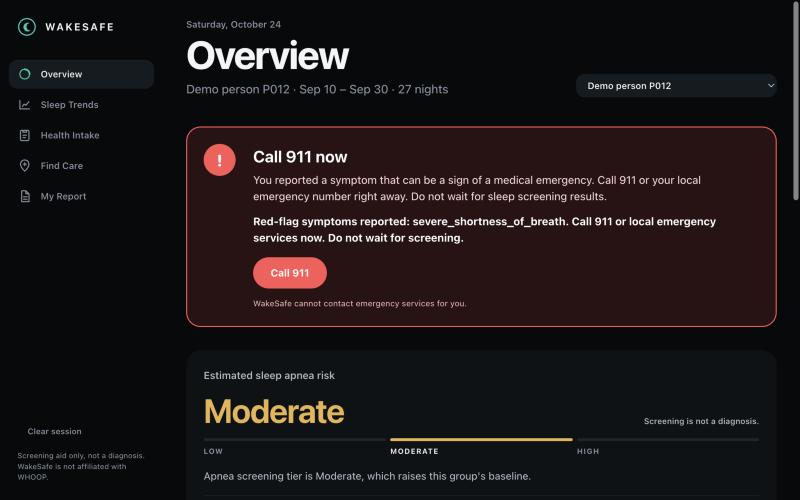
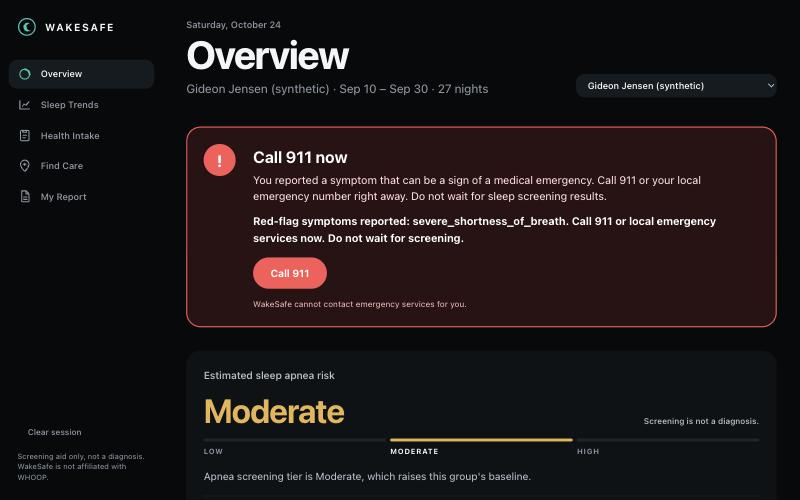
README: add Future Work, document the demo names, retake the emergency screenshot

diff --git a/README.md b/README.md
@@ -24,12 +24,13 @@ All demo data in this repository is **synthetic** (made up). No real patient dat
 8. [Repository layout and who owns what](#8-repository-layout)
 9. [Tests](#9-tests)
 10. [What is not built yet](#10-what-is-not-built-yet)
+11. [Future work](#11-future-work)
 
 ---
 
 ## 1. What you can do in the app
 
-The app has five pages: **Overview**, **Sleep Trends**, **Health Intake**, **Find Care** and **My Report**. A "demo person" picker at the top right lets you try 72 made-up people (see [section 4](#4-the-data)).
+The app has five pages: **Overview**, **Sleep Trends**, **Health Intake**, **Find Care** and **My Report**. A picker at the top right lets you try 72 made-up people, each with a made-up name ending in "(synthetic)" (see [section 4](#4-the-data)).
 
 ### Overview: your result at a glance
 
@@ -165,11 +166,15 @@ All thresholds live in one settings block (`CONFIG` in `backend/app/services/scr
 
 | Group | How many | What they are |
 | --- | --- | --- |
-| P001 to P065 | 65 | Made-up people with about 30 nights each and made-up questionnaire answers, built by `synthetic_data/` (seed 42, so identical every run). They deliberately overlap, so it is not obvious who is who. |
+| P001 to P065 | 65 | Made-up people with about 30 nights each and made-up questionnaire answers, built by `synthetic_data/` (seed 42, so identical every run). They deliberately overlap, so it is not obvious who is who. Each has a random but fixed made-up name (for example "Nikhil Ortega (synthetic)") that matches the sex in their answers and is never based on health condition. |
 | P901 | 1 | A demo-only person whose **last 7 nights get worse** (lower SpO2 and efficiency, more disturbances). It shows the app reacting to change. |
 | Demo scenarios | 6 | Normal sleeper, apnea pattern, cardiovascular drift, peri/menopause pattern, altitude trip and jet-lag trip, built by `scripts/gen_synthetic.py`. The last two show travel being taken into account. |
 
 Every synthetic file starts with a `# SYNTHETIC DATA` line and has an `is_synthetic` column.
+
+![Health Intake: the demo people with their made-up names](docs/screenshots/12-intake-all-profiles.png)
+
+The demo people appear with their made-up names, a "(synthetic)" label and a "Demo" badge on their wearable data, so nobody can mistake them for real patients. Their IDs (P001 and so on) are used in the API and in the tests.
 
 **Synthetic data is only used to run the demo, build the screens and test the code.** It is never used to train, tune or measure accuracy of any model.
 
@@ -239,7 +244,7 @@ Open http://localhost:5173. Without those two settings the website runs on its o
 
 1. Open the **Overview** and pick a demo person from the top right.
 2. Open **Health Intake**, answer the questionnaire and save. The Overview re-screens with your answers.
-3. Pick **P012** to see the emergency banner, or **Demo altitude trip** to see travel being taken into account.
+3. Pick **Gideon Jensen (synthetic)** (ID P012) to see the emergency banner, or **Demo altitude trip (SpO2 suppressed)** to see travel being taken into account.
 
 ### Regenerating data (optional)
 
@@ -318,7 +323,7 @@ WakeSafe/
 
 | Suite | How to run | Status |
 | --- | --- | --- |
-| Backend (208) | `cd backend && python -m pytest -q` | all pass |
+| Backend (209) | `cd backend && python -m pytest -q` | all pass |
 | ML and scripts | `python -m pytest ml/tests scripts/tests -q` | 24 pass, 3 skipped (they need the downloaded recordings) |
 | Synthetic data (45) | `cd synthetic_data && python -m pytest -q` | all pass, validator 10 of 10 checks |
 | Frontend (45) | `cd frontend && npm test` | all pass, `npm run build` succeeds |
@@ -337,6 +342,30 @@ Run the backend tests from the `backend/` folder. The tests cover the data provi
 - **Cloud storage.** Questionnaire answers stay on the device. The Supabase migration and adapter are prepared but not connected, and the team still has to decide whether health answers should be stored at all.
 - **Clinician review.** Every threshold in the rules is marked unreviewed and needs a clinician's check before real use.
 - **A prospective check on real WHOOP data.** Nothing here has been tested on real people.
+
+---
+
+## 11. Future work
+
+Where we want to take WakeSafe next. Each item says what exists today and what is missing.
+
+### Doctor-ready reports
+
+When the screener flags a risk, generate a clear report of the underlying metrics (sleep stages, heart rate, oxygen and trend data) and the person's relevant history, so they can bring it to a doctor and the doctor can analyze it quickly.
+
+*Today:* the structured report data is built and served (`POST /api/reports/preview`), including the nights, features, reasons, versions and data provenance. *Next:* the **My Report** page, a printable PDF with trend charts and a nightly-values appendix, and a preview step before anything is downloaded, with name and date of birth optional.
+
+### Smarter hospital matching
+
+Recommend nearby hospitals with a specialty matched to the specific condition, ranked by urgency. For urgent cases, prioritize proximity and available capacity. For routine cases, weigh wait time and specialty fit, using live wait-time and bed-availability data from each hospital.
+
+*Today:* 20 Massachusetts hospitals are ranked by specialty fit and drive time, with a driving route on the map, and capacity is labeled static, simulated, live or unknown. The live-capacity slot exists but is a stub. *Next:* real condition-to-specialty data (the current hospital list describes beds and services, not sleep clinics or cardiology), live wait-time and bed-availability feeds, and separate ranking rules for urgent and routine cases.
+
+### Richer inputs and broader screening
+
+Combine WHOOP data with additional sources, such as lab results and medical history, to improve the accuracy of our flagging. Use the same signals to screen for other cardiac issues, such as irregular heart rhythms, alongside sleep apnea.
+
+*Today:* the inputs are WHOOP-format nightly summaries (demo people or CSV upload) plus an 11-question questionnaire, and the risk engine already has a cardiovascular group based on heart-rate and HRV trends. *Next:* the live WHOOP connection with member consent, a way to add lab results and fuller history, and heart-rhythm screening. Like everything in WakeSafe, a new screening signal would need validation on real recordings, a clinician's review and an honest statement of its limits before anyone relies on it.
 
 ---
 
